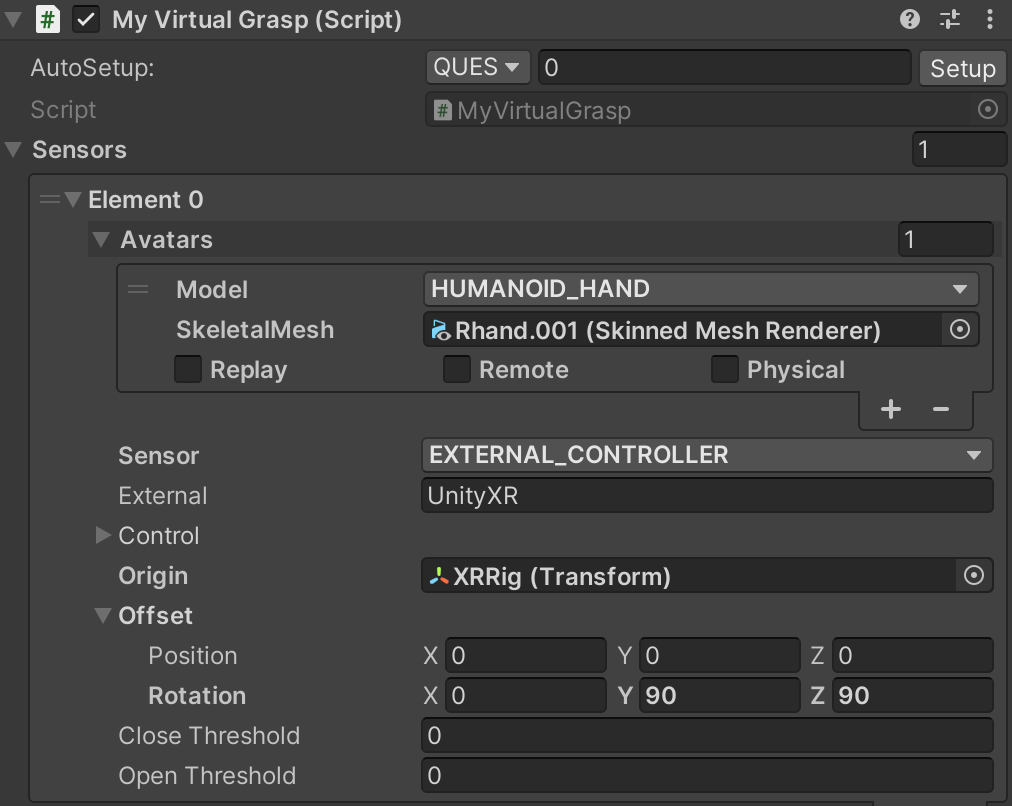
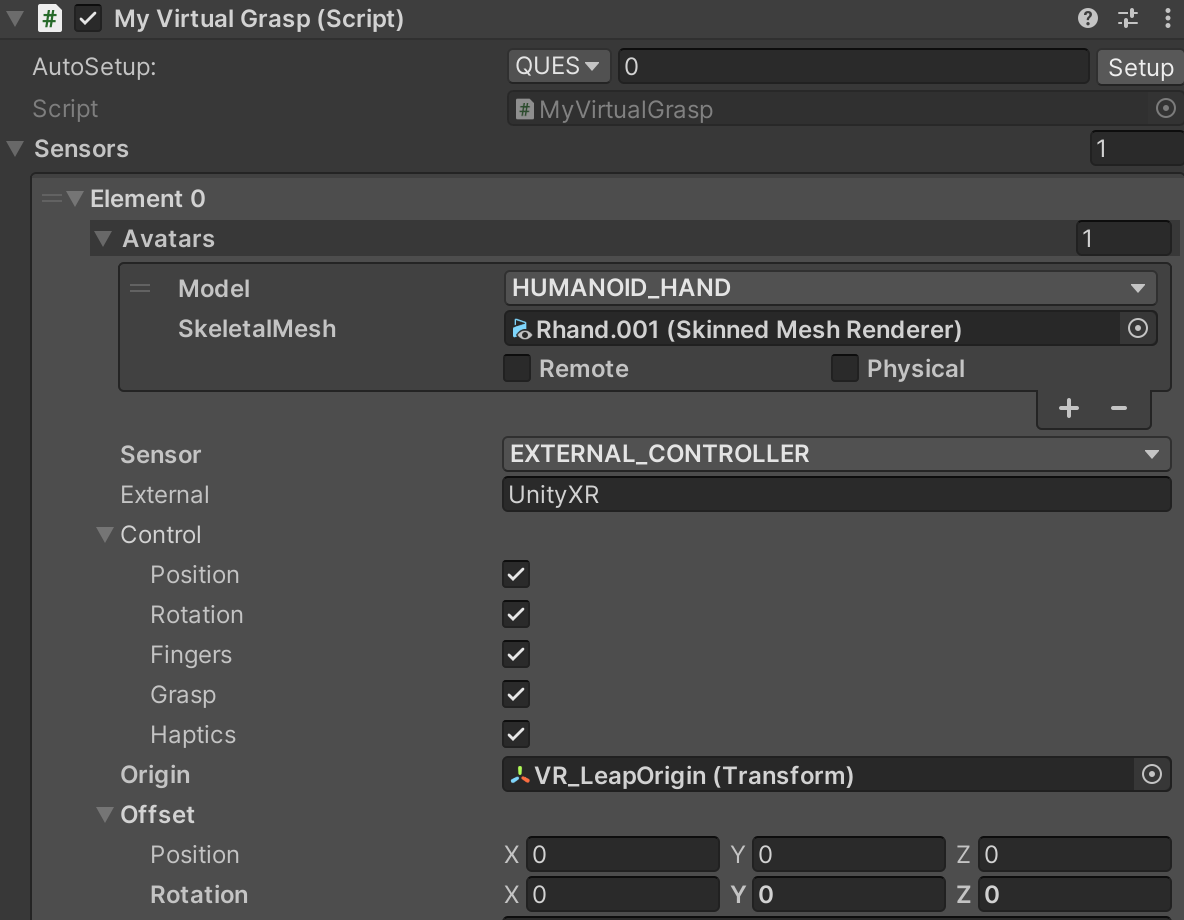
improved my vg page

diff --git a/pages/unity/unity_component_myvirtualgrasp.md b/pages/unity/unity_component_myvirtualgrasp.md
@@ -10,27 +10,21 @@ folder: mydoc
 ---
 
 MyVirtualGrasp is a <a href="#" data-toggle="tooltip" data-original-title="{{site.data.glossary.CoreScript}}">Core Script</a>
-
-It inherits from VG_MainScript, which encodes the main functionality of VirtualGrasp, and is the main component that you need to add and configure in your project to enable VirtualGrasp.
-
+It inherits from VG_MainScript, which encodes the main functionality of VirtualGrasp, and is the main component that you need to add 
+and configure in your project to enable VirtualGrasp.
 In Unity, VG_MainScript inherits from Monobehavior so you can use it as a component on a GameObject.<br><br>
-<!-- All the API functions you want to use in your own scripts can be accessed through VG_Controller. -->
+In VG SDK, you can find the Prefab “GleechiLib” from the ThirdParty/VirtualGrasp/Resources directory that has been configured to have MyVirtualGrasp component. You can simply drag and drop this into your scene, in your Hierarchy view, you will see the instantiated GameObject -- GleechiLib.
 
-On this page, we are going to describe all the major configuration options.
+On this page, we are going to describe all the major configuration options covered in MyVirtualGrasp.cs.
 
-<!--On this page, we are going to describe all the major configuration options, divided into the following sections:
-
-* [AutoSetup & Sensors](#sensor-setup)
-* [Sensor Settings](#sensor-settings)
-* [Object Identifiers](#object-identifiers)
-* [Grasp Interaction Settings](#grasp-interaction-settings)
-* [Advanced Settings - Debug Settings](#debug-settings)
--->
 ### AutoSetup & Sensors
 
-{% include image.html file="unity/unity_vg_myvirtualgrasp.png" alt="Sensor configuration options (as part of VG_MainScript) in Unity." caption="Sensor configuration options (as part of VG_MainScript) in Unity." %}
+{% include callout.html content= "VG allows you to configure upto two sensors in an VR application. This allows the developer to combine two sensors to control avatar's hands. For example you can choose to use a data glove to control avatar's finger pose and grasp triggers, while using the Oculus touch to control wrist position and orientation. Though this is not most common setup for today's VR development, this ability may become useful expecially for the research community. As you can see **Sensors** is a list in the interface and the first sensor element is listed as **Element 0**. All of the sensor elements will share the same interface, so in the descriptions below, we will focus on the importance of each element for each Sensor." %} 
 
-**AutoSetup** will auto-configure a number of controller-related settings in your VG_MainScript component and thereyby allow you to quickly switch between different controller inputs, such as Quest, LeapMotion, Mouse, and others.
+{% include image.html file="unity/unity_vg_myvirtualgrasp.png" alt="Sensor configuration options in Unity." caption="Sensor configuration options in Unity." %}
+
+#### AutoSetup
+AutoSetup will auto-configure a number of controller-related settings in your VG_MainScript component and thereyby allow you to quickly switch between different controller inputs, such as Quest, LeapMotion, Mouse, and others.
 
 Select an [VG_AutoSetup](/virtualgrasp_unityapi.html#vg_autosetup) option from the dropdown menu, then click "Setup" to automatically adjust the following fields:
 * Sensor, External, Origin, Offset, and SensorSettings:FingerControlType.
@@ -38,9 +32,9 @@ Select an [VG_AutoSetup](/virtualgrasp_unityapi.html#vg_autosetup) option from t
 Pay attention to the Console in case there is anything you may need to take care of manually to complete the auto-setup process.
 
 The integer value (0 in the image) relates to the element of the Sensors list that you want to auto-configure.
-In most cases you will have only one avatar in your scene that is controlled by a single controller, so 0 is the default. However, if you use multiple sensor elements, you can also quickly auto-configure them by modifying the integer value.
+In most cases you will have only one avatar in your scene that is controlled by a single sensor, so 0 is the default. However, if you use multiple sensor elements, you can also quickly auto-configure them by modifying the integer value.
 
-{% include callout.html content="**Sensors** is a list that allows you to add multiple elements if you like. All of them will share the same interface, so in the descriptions below, we will focus on the importance of each element for each Sensor." type="primary" %} 
+
 
 <!--
 <div class="panel-group" id="accordion1">
@@ -59,38 +53,39 @@ In most cases you will have only one avatar in your scene that is controlled by 
 </div>
 -->
 
-### Sensors
-
 #### Avatars
 
 For each sensor, you can assign multiple avatars, though in most cases you will have only one avatar per sensor.
 
-{% include image.html file="unity/unity_vg_myvirtualgrasp_avatar.png" alt="Avatar configuration options (as part of VG_MainScript) in Unity." caption="Avatar configuration options (as part of VG_MainScript) in Unity." %}
+<!--{% include image.html file="unity/unity_vg_myvirtualgrasp_avatar.png" alt="Avatar configuration options in Unity." caption="Avatar configuration options in Unity." %}-->
 
-The **Model** should be HUMANOID_HAND in your usecase. There are robotic hand options as well, but they will not be discussed here.
+| Option | Description |
+|-------|--------|
+| Model | should be HUMANOID_HAND in most of VR application usecase. There could also be robotic hand options, but they will not be discussed here. | 
+| SkeletalMesh| used to provide a reference to the SkinnedMeshRenderer of the avatar that you have imported in your scene and which should be controlled by VG during runtime. | 
+| Remote | check this if you want to use this avatar for reflecting networked data (i.e. listening to another client over network in a multiplayer scenario), as explained in [Multiplayer Interaction](multiplayer_interaction.html), or the [VG_Networking Component](unity_component_vgnetworing.html).| 
+| Physical | check this if you want VG to create colliders for this avatar and enable the hand for physical interactions. NOTE at the moment, this option is experimental and should not be used apart from testing.| 
 
-Under **SkeletalMesh** you provide a reference to the SkinnedMeshRenderer of the avatar that you have imported in your scene and which should be controlled by VirtualGrasp during runtime.
+<!--Check the **Replay** option if you want to use this avatar not for runtime-control, but for replaying recorded sensor data, as explained in [Sensor Record and Replay](sensor_record_replay.html), or the [VG_Recorder Component](unity_component_vgrecorder.html).-->
 
-Check the **Replay** option if you want to use this avatar not for runtime-control, but for replaying recorded sensor data, as explained in [Sensor Record and Replay](sensor_record_replay.html), or the [VG_Recorder Component](unity_component_vgrecorder.html).
+#### Sensor
 
-Check the **Remote** option if you want to use this avatar for reflecting networked data (i.e. listening to another client over network in a multiplayer scenario), as explained in [Multiplayer Interaction](multiplayer_interaction.html), or the [VG_Networking Component](unity_component_vgnetworing.html).
-{% include important.html content="Documentation is missing here and links do not work." %}
+<!--{% include image.html file="unity/unity_vg_sensor.png" alt="Sensor configuration options in Unity." caption="Sensor configuration options in Unity." %}-->
 
-Check the **Physical** option if you want VirtualGrasp to create colliders for this avatar and enable the hand for physical interactions (remember VG is an animation engine that is not dependent on physics).
-{% include important.html content="At the moment, this option is experimental and should not be used apart from testing." %}
-
-### Sensor Offset
-
-When the virtual hands do not match to the position or rotation of your real hands holding the controllers, you can adjust an offset in each controller setting to synchronize them:
-
-Note that the hand coordinate system's axes, XYZ, are defined like you strech out three axes with thumb, index, and middle finger (i.e. X is thumb up, Y is index forward, and Z is middle inward) of each hand. In other words, with a fully flat hand, all finger point along the positive Y axis, and your palm faces the positive Z axis.
+| Option | Description |
+|-------|--------|
+| Sensor | will always be External Controller for the VG SDK. | 
+| External| name of the external controller, as a string, so one can write your own external controller.| 
+| Control | specify what this sensor element controls. If you added two sensors, then one could control wrist position, rotation and  haptics, another controls fingers and grasp for example.| 
+| Origin | the origin of sensor where the sensor data is interpreted. | 
+| Offset | when the virtual hands do not match to the position or rotation of your real hands holding the controllers, you can adjust the offset to synchronize them. Note that the hand coordinate system's axes, XYZ, are defined like you strech out three axes with thumb, index, and middle finger (i.e. X is thumb up, Y is index forward, and Z is middle inward) of each hand. In other words, with a fully flat hand, all finger point along the positive Y axis, and your palm faces the positive Z axis.| 
 
 {% include image.html file="knowledge/lhs_rhs.png" alt="LHS/RHS" caption="The offset is applied in LHS (left hand system) for the left and RHS (right hand system) for the right hand." %}
 
 ### Sensor Settings
 
-{% include image.html file="unity/unity_vg_sensor_settings.png" alt="VG sensor settings." caption="VG sensor settings" %}
-
+{% include image.html file="unity/unity_vg_sensor_settings.png" alt="Sensor settings in Unity." caption="Sensor settings in Unity." %}
+After you have setup how your avatar's hands are controlled (by one or two sensors), you can use this Sensor Settings interface to specify Finger Control Type and Trigger Button globally for all of the sensors.
 #### Finger control type
 
 This provides the option to choose how sensor controls the finger motion
@@ -128,8 +123,10 @@ By default VG uses 2 components: [VG_Articulation](unity_component_vgarticulatio
 
 See explanation of the parameters in [grasp Interaction](grasp_interaction.html#grasp-interaction). 
 You can set the default grasp interaction parameters for all objects in the scene globally. 
-And <a href="#" data-toggle="tooltip" data-original-title="{{site.data.glossary.GraspSynthesisMethod}}">synthesis Method</a> and <a href="#" data-toggle="tooltip" data-original-title="{{site.data.glossary.InteractionType}}">interaction type</a> can be set "locally" for each object by using
-[VG_Interactable](unity_component_vginteractable.html#unity-component-vginteractable) component.
+
+
+{% include callout.html content= "Note that Synthesis Method and Interaction Type can be set locally for each object by attaching [VG_Interactable](unity_component_vginteractable.html#unity-component-vginteractable) component to the object. These local settings will overwrite the global grasp interaction settings for that object." %} 
+
 
 <!--### Selection Settings
 {% include image.html file="unity/unity_vg_selection_settings.png" alt="VG selection settings." caption="VG selection settings" %}
@@ -176,6 +173,6 @@ Debug settings will show up when "Show Advanced" is checked.
 
 | Parameters | Description |
 |-------|--------|
-| Save Debug Files | Enabling this and running the application will create a vg_tmp subdirectory in your project and save sources that are used for different purposes (see [Debug Files](debug_files.html)). | 
+| Save Debug Files | Enabling this and running the application will create a vg_tmp subdirectory in your project and save sources that are used for different purposes (see [debug files](debug_files.html)). | 
 | Physics Default Contact Offset | Overwrite Unity physics contact offset for more accurate collision detection. | 
 

diff --git a/pages/knowledge/controllers.md b/pages/knowledge/controllers.md
@@ -8,15 +8,17 @@ toc: true
 ---
 ## Background
 
-{% include callout.html content="In VirtualGrasp we use the term sensor and controller exchangeably since a VR controller is essentially a sensing device for hand poses." %}
+{% include callout.html content="Note that in VirtualGrasp we use the term sensor and controller exchangeably since a VR controller is essentially a sensing device for hand poses." %}
 
-VirtualGrasp is hardware-agnostic. It can create natural grasp interactions 
+VirtualGrasp is hardware-agnostic. It can create natural [grasp interactions](grasp_interaction.html) 
 with any kind of controllers (or <a href="#" data-toggle="tooltip" data-original-title="{{site.data.glossary.Sensor}}">sensors</a>), wether it is hand-held VR controllers or finger tracking devices like LeapMotion. 
 This is because unlike many physics-based grasp synthesis solutions in the market ([Hand Physics Lab](https://www.holonautic.com/hand-physics-lab), [HPTK](https://github.com/jorgejgnz/HPTK-Sample), [CLAP](https://clapxr.com/)) 
 that requires accurate finger tracking devices, VirtualGrasp exploits "object intelligence". By analyzing shape and affordances of an object model in VR, we can synthesize <a href="#" data-toggle="tooltip" data-original-title="{{site.data.glossary.GraspConfiguration}}">grasp configurations</a> on a hand with just the knowledge of where the wrist is, and without any dependence of expensive physical simulations. 
 
-Whether it is Unity or Unreal, you can assign your controller input in VG_MainScript → Sensors → Sensor. 
-Note that if you use the GleechiLib prefab in Unity, MyVirtualGrasp is your VG_MainScript (as it inherits from it).
+Whether it is Unity or Unreal, you can assign your controller input in MyVirtualGrasp → Sensors. 
+See [AutoSetup & Sensors](unity_component_myvirtualgrasp.html#autosetup--sensors) to learn how to setup your sensors in Unity. 
+
+<!--
 {% include image.html file="unity/unity_control_flags.png" alt="VG control flags." caption="VG Control Flags" %}
 
 There are a few controllers that are supported "out of the box" by VirtualGrasp, which means that no additional engine plugins are needed. 
@@ -103,14 +105,6 @@ We also include integrations for some "full-pose" external controllers (which ar
 </tr>
 </thead>
 <tbody>
-<!--
-<tr>
-<td markdown="span">SteamVR</td>
-<td markdown="span">Full hand</td>
-<td markdown="span">SteamVR plugin / Steam Skeleton API used for Knuckles</td>
-<td markdown="span">SteamHand.cs</td>
-</tr>
--->
 <tr>
 <td markdown="span">LeapHand</td>
 <td markdown="span">Full hand</td>
@@ -123,23 +117,14 @@ We also include integrations for some "full-pose" external controllers (which ar
 <td markdown="span">OculusVR plugin / OVRPlugin API used for Quest Finger Tracking.</td>
 <td markdown="span">VG_EC_OculusHand.cs</td>
 </tr>
-<!--
-<tr>
-<td markdown="span">BebopGlove</td>
-<td markdown="span">Full hand</td>
-<td markdown="span">Bebop plugin / Bebop API used for Bebop Gloves</td>
-<td markdown="span">BebopHand.cs</td>
-</tr>
--->
 </tbody>
 </table>
-
 
 As mentioned earlier, for each of them, you also need to install a specific plugin into Unity (see table). VG then does not take the raw sensor input as an input, but works as a filter on the bone animation. To address some of the considerations mentioned in the section above, we provide mapping components (right column). Using the minimal APIs and some help of the VG plugin, those mapping components are configured automatically, they update the hand bones according to the sensor input, and then provide the full bone configuration to VG, which in turn updates the hand bones once again to the final hand configuration.
 
 {% include important.html content="Due to the different geometric representations in the sensor API and the hand models, all mapping components are made to work with the Oculus hands. If you want to use other hands, you have to adapt the scripts." %}
 
-<!--
+
 ## Known Issues
 
 Full-hand external controllers do not work when using VirtualGrasp inside a remote package (due to package dependencies). You need to have VirtualGrasp installed inside the project from a .unitypackage.

diff --git a/pages/knowledge/push_interaction.md b/pages/knowledge/push_interaction.md
@@ -39,19 +39,19 @@ to the object to specify the preferred <a href="#" data-toggle="tooltip" data-or
 by the <a href="#" data-toggle="tooltip" data-original-title="{{site.data.glossary.PushAgent}}">push agent</a> for pushing this object. 
 
 Given that
-* The <a href="#" data-toggle="tooltip" data-original-title="{{site.data.glossary.PushAgent}}">push agent</a> has been assigned 
+* the <a href="#" data-toggle="tooltip" data-original-title="{{site.data.glossary.PushAgent}}">push agent</a> has been assigned 
 (through set <a href="#" data-toggle="tooltip" data-original-title="{{site.data.glossary.InteractionAffordance}}">interaction affordance</a> as INDEX_PUSHABLE),
 and
-* <a href="#" data-toggle="tooltip" data-original-title="{{site.data.glossary.PushPivot}}">push pivot</a> is added to the object to be pushed. 
+* <a href="#" data-toggle="tooltip" data-original-title="{{site.data.glossary.PushPivot}}">push pivot</a> is added to the object to be pushed,
 
-The decision on which of the pushable objects is selected for pushing is done by considering:
-* how close is the push agent to the pushable object
+the decision on which of the pushable objects is selected for pushing is done by considering:
+* how close is the <a href="#" data-toggle="tooltip" data-original-title="{{site.data.glossary.PushAgent}}">push agent</a> to the pushable object
 and
-* how aligned is the push agent's <a href="#" data-toggle="tooltip" data-original-title="{{site.data.glossary.ApproachDirection}}">approach direction</a> with the preferred <a href="#" data-toggle="tooltip" data-original-title="{{site.data.glossary.ApproachDirection}}">approach direction</a>. 
+* how aligned is the <a href="#" data-toggle="tooltip" data-original-title="{{site.data.glossary.PushAgent}}">push agent</a>'s <a href="#" data-toggle="tooltip" data-original-title="{{site.data.glossary.ApproachDirection}}">approach direction</a> with the preferred <a href="#" data-toggle="tooltip" data-original-title="{{site.data.glossary.ApproachDirection}}">approach direction</a>. 
 
 {% include image.html file="unity/unity_button_pivot.png" alt="A Unity button." caption="A Unity button"%}
 
-For example image above shows the push pivot transform added to the red button. The blue arrow (Zaxis of this transform) specifies
+For example image above shows the push pivot transform added to the red button. The blue arrow (zaxis of this transform) specifies
 the <a href="#" data-toggle="tooltip" data-original-title="{{site.data.glossary.ApproachDirection}}">approach direction</a>. 
 So when index finger is approaching from bottom to the button, opposite to the blue arrow, the object will not be selected for push.
 

diff --git a/pages/knowledge/debug_files.md b/pages/knowledge/debug_files.md
@@ -28,7 +28,7 @@ Whenever you stop the scene, the following data will be saved:
 <a href="#" data-toggle="tooltip" data-original-title="{{site.data.glossary.VGSceneFiles}}">VG scene files</a>)
 * Finally, from all this content, one **.ZIP** file named "PROJECT_NAME".zip will be generated in your project folder.
 
-{% include important.html content="Accordingly, it is recommended to delete the vg_tmp folder whenever you start with a new debug file creation process, since existing and potentially outdated data will not be deleted (only potentially overwritten)." %}
+{% include important.html content="It is recommended to delete the vg_tmp folder whenever you start with a new debug file creation process, since existing and potentially outdated data will not be deleted (only potentially overwritten)." %}
 
 <!--
 ### Creating the Debug Files
@@ -42,11 +42,11 @@ If properly setup, you will see similar info as below in your console:
 
 #### Object Baking
 
-The **.ZIP** file of all the content is the input that is needed for [Object Baking](object_baking.html#upload-input).
+The **.ZIP** file of all the content is the input that is needed for [object baking](object_baking.html#upload-input).
 
 #### Grasp Editor
 
-The **.OBJ** files of all the objects are used for the automatic generation of the [Grasp Studio](unity_component_vggraspstudio.html) scene.
+The **.OBJ** files of all the objects are used for the automatic generation of the [grasp studio](unity_component_vggraspstudio.html) scene.
 
 #### Debugging Interaction Issues
 
@@ -64,7 +64,7 @@ For example:
 * <a href="#" data-toggle="tooltip" data-original-title="{{site.data.glossary.GraspSynthesisMethod}}">synthesis method</a>: you thought you have decided to use STATIC_GRASP on antenna, but it is DYNAMIC_GRASP in reality.
 * etc.
 
-{% include important.html content="Since .scn files are written at the moment when you stop playing the scene, the saved information reflects your scene configuration at that moment. 
+{% include callout.html content="Since .scn files are written at the moment when you stop playing the scene, the saved information reflects your scene configuration at that moment. 
 So if you in runtime, for example, changed an object's joint type or selection weight, then stopped playing, the resulting .scn files will reflect the effective values after your runtime change." %}
 
 Below shows an example of a .scn file representing a simple scene with just two objects - "radio" and "antenna". 

diff --git a/pages/knowledge/object_baking.md b/pages/knowledge/object_baking.md
@@ -11,9 +11,9 @@ In order to runtime synthesize natural looking grasps on objects during [grasp i
 VirtualGrasp requires a preprocessing step of these objects. 
 Like game developers know the concepts of "light baking" or "texture baking" in order to preprocess expensive computations and have faster access during runtime, we call the preprocessing of the objects <a href="#" data-toggle="tooltip" data-original-title="{{site.data.glossary.ObjectBaking}}">object baking</a>.
 
-In order to bake an object, we need to access the 3D mesh data of the object. 
+To bake an object, we need to access the 3D mesh data of the object. 
 So if the 3D mesh data of the object changed, a new object baking is needed. 
-Table below explains when a new bake is needed:
+Table below lists when a new bake is needed:
 
 | When do we need new baking | Why? |
 |-------|--------|---------|---------|
@@ -21,7 +21,7 @@ Table below explains when a new bake is needed:
 | Object scale changed |  Bcause grasp depends on the object size. | 
 | Object pivot (origin) changed |  Because the shape analysis result is stored in the object's coordinate frame. | 
 
-{% include important.html content="If you have not baked your project, you can still enjoy 
+{% include callout.html content="If you have not baked your project, you can still enjoy 
 the object interactive behaviors supported by [object articulation](object_articulation.html#object-articulation). 
 However, note that there will only be unnatural looking sticky hand like grasps
  (see [grasp interaction type](grasp_interaction.html#grasp-interaction-type))." %}
